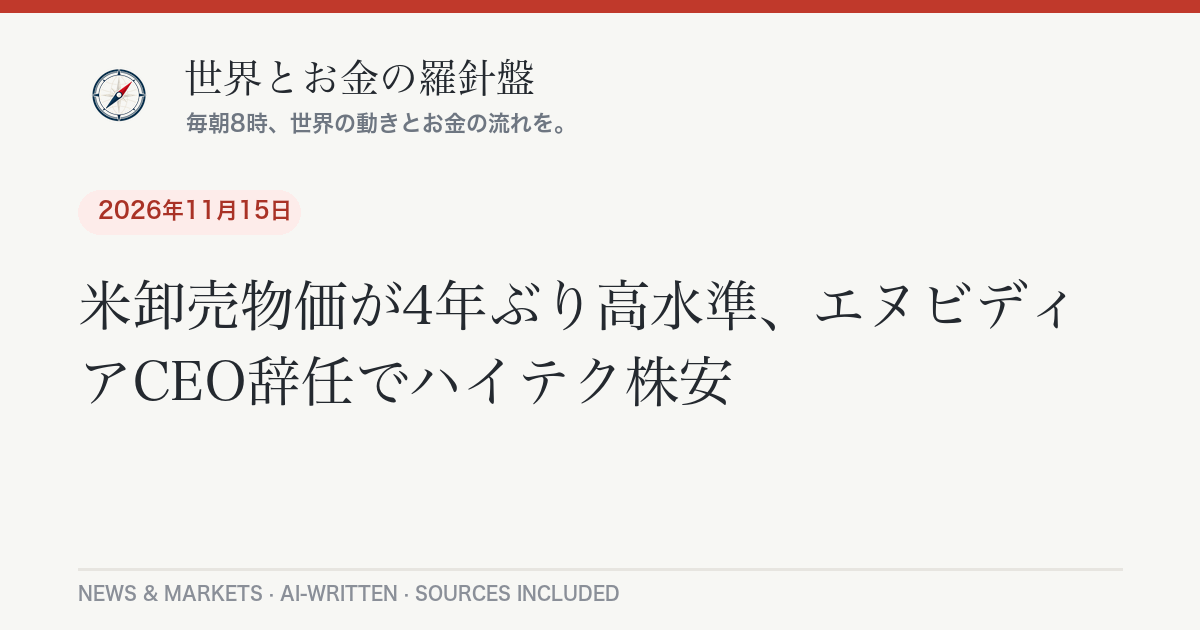
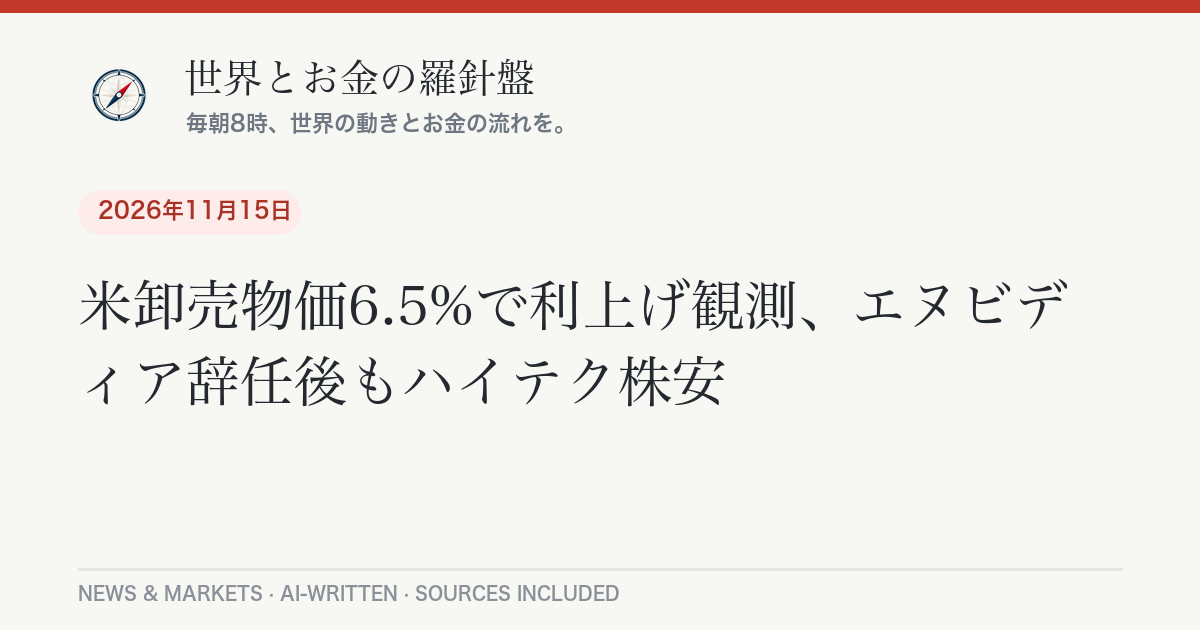
Daily briefing 2026-11-17

Changed region(s): [[0.0617, 0.4222, 0.8942, 0.6635]]

diff --git a/_posts/2026-11-17-daily-briefing.md b/_posts/2026-11-17-daily-briefing.md
@@ -1,0 +1,100 @@
+---
+layout: post
+lang: ja
+title: "ハイテク株が急落、日経平均は6万円割れ｜11月17日のニュースとお金"
+date: 2026-11-17 07:55:00 +0900
+categories: [ニュース, 経済]
+headline: "ハイテク株が急落、日経平均は6万円割れ"
+permalink: /2026/11/17/daily-briefing/
+---
+
+## 今日のポイント
+
+11月16日（月）は、エヌビディアを中心としたAI・半導体株が売られ、日本と米国の株価がそろって大きく下がりました。一方で原油も値下がりし、ドル円は160円の手前で足踏みしています。きょう17日（火）の米国市場の引け後にはエヌビディアの決算発表があり、世界の投資家がその中身を待っている状況です。
+
+## 今日の羅針盤（Compass Insight）
+
+きのうの下げは、日本の景気指標が弱かったことよりも、「AIの期待が一度に冷えやすい局面」にあることが大きいと読みます。日経平均は[2.4%安の5万9,662円](https://finance.yahoo.co.jp/news/detail/51026bee69890da5d51de568999427306fa352d7)で、アドバンテストと東京エレクトロンの2銘柄だけで[約1,071円分の押し下げ](https://kabutan.jp/news/marketnews/?b=n202611161056)でした。指数が一部の半導体株に引っ張られやすいことを示す動きです。
+
+家計への影響で見ると、注目は為替と金利です。円安が160円近辺で続くと、輸入品や電気・ガスの負担が重くなりやすい一方、米国では[12月の追加利上げが織り込まれつつある](https://www.cnbc.com/2026/11/16/treasury-yields-bonds-inflation.html)ため、米金利の高止まりが円安を支える可能性があります。日本でも日銀の12月会合での利上げ観測が強く、住宅ローン（特に変動金利）の動向に注意が必要な局面です。
+
+短期では、エヌビディア決算の内容と、その後の米株の反応に注目です。中長期では、AI関連への投資が収益にどうつながるのか、そして日米の金利差がどこまで円相場を左右するのかを見ておきたいところです。値動きが大きい時期なので、慌てて動かず、自分の資産配分と生活費の余裕を確認する時間にするのも一案です。
+
+## 今日のニュース
+
+### 日本
+- 内閣府が発表した7〜9月期の実質GDP（1次速報）は、[年率換算で0.1%減](https://www.oanda.jp/lab-education/market_news/jpgdp-q3-2026-review/)と4四半期ぶりのマイナス成長でした。市場予想は年率0.2%増でした。
+- 日経平均は[前週末比1,480円安の5万9,662円](https://www.zaikei.co.jp/article/20261116/877819.html)で取引を終え、終値で6万円を割り込みました。
+- ドル円は[一時160.18円まで上昇したあと159円台に戻り](https://www.gaitame.com/media/entry/2026/11/16/110625)、160円台では政府・日銀による為替介入への警戒感が意識されています。
+
+### 世界
+- [エヌビディアは11月12日、ジェンスン・フアン氏が社長・CEO・取締役を辞任したと発表](https://nvidianews.nvidia.com/news/nvidia-announces-ceo-transition)しました。後任は暫定でコレット・クレスCFOです。株価はその後も下落が続いています。
+- 米AI企業アンソロピックは、ナスデックに上場する計画で、[11月18日の価格決定が予定されている](https://finance.yahoo.com/technology/article/anthropic-publicly-files-ipo-prospectus-noting-strong-revenue-growth-and-massive-spending-131807138.html)と報じられています。
+
+### アメリカ
+- トランプ大統領は、移民政策について[「厳しすぎた」と認め、民主党とも協力する考えを示しました](https://www.nbcnews.com/politics/politics-news/live-blog/trump-press-secretary-role-ufc-ceo-dana-white-stephen-miller-congress-rcna608064)。中間選挙後の政権運営の変化が注目されています。
+- 米連邦航空局（FAA）が先週金曜に通信網の更新作業中の機器トラブルで発着を止め、[影響は月曜まで続く見通し](https://npr.org/2026/11/15/nx-s1-6041683/flight-disruptions-expected-to-last-into-monday)と伝えられました。
+
+### ヨーロッパ
+- ギリシャ、デンマーク、ドイツ、オーストリア、オランダの5カ国が、[ルワンダに海外の送還拠点を設ける計画を発表](https://euronews.com/2026/11/16/europe-tonight-five-eu-states-announce-rwanda-deportation-hubs-as-eu-warns-russia-is-weapo)しました。試験運用は2027年半ばの予定で、人権面の懸念も出ています。
+- EU外相会合は、ロシアのプロパガンダに関わったとして[アイルランド人ジャーナリストを含む113の個人・団体に制裁](https://www.rte.ie/news/europe/2026/1116/1599321-eu-ukraine-politics/)を科しました。
+- EU27カ国の閣僚は、[シリア政府との関係強化の提案に賛成](https://www.thenationalnews.com/news/mena/2026/11/16/stable-syria-in-europes-interest-eu-wins-backing-for-deal-with-damascus/)しました。
+
+## 経済とお金の動き
+
+### 世界の経済と原油・相場
+
+| 指標 | 水準 | 前日比 |
+|---|---|---|
+| 日経平均株価（11/16終値） | 59,662.02円 | <span class="chg-down">-1,480.33円（-2.42%）</span> |
+| ダウ平均（11/16終値） | 約51,608ドル | <span class="chg-down">約-739ドル（-1.41%）</span> |
+| S&P500（11/16終値） | 約7,417 | <span class="chg-down">約-1.9%</span> |
+| ナスダック総合（11/16終値） | 約24,510 | <span class="chg-down">約-2.5%</span> |
+| WTI原油（12月限） | 約85.72ドル/バレル | <span class="chg-down">約-3.2%</span> |
+| ドル円（ECB基準日11/16） | 159.60円 | 160円手前で推移 |
+
+米国の指数は[ヤフー・ファイナンス](https://finance.yahoo.com/markets/live/stock-market-today-monday-november-16-dow-sp-500-nasdaq-nvidia-oil-091631084.html)の報道、WTI原油は[リグゾーン](https://www.rigzone.com/news/oil_retreats_as_traders_weigh_supply_glut-16-nov-2026-185096-article)の報道、ドル円は[フランクフルター API](https://api.frankfurter.app/latest?from=USD&to=JPY)の値を使っています。数値は媒体によって小数点以下に差があるため「約」と表記しました。
+
+原油は、国際エネルギー機関（IEA）が供給過剰を見込んでいることや、中東からの輸出の回復を背景に下げました。[ブレント原油も3%台の下落](https://www.rigzone.com/news/oil_retreats_as_traders_weigh_supply_glut-16-nov-2026-185096-article)です。ガソリンや電気料金には時間差で影響しますが、家計には追い風になりうる動きです。
+
+### アメリカの経済
+
+米国では、[10年国債の利回りが5%台前半](https://www.cnbc.com/2026/11/16/treasury-yields-bonds-inflation.html)と高い水準にあります。FRB（米連邦準備制度理事会）は[9月に約3年ぶりの利上げを実施し、政策金利を3.75〜4.00%にしました](https://www.axios.com/2026/09/16/fed-rates-warsh-trump)。市場では12月にもう一度の利上げを見込む声が強まっています。ウォーシュ議長が「AIは期待外れになりうる」という趣旨の発言をしたことも、ハイテク株の重しになりました。きょうは10月の小売売上高とエヌビディア決算が注目点です。
+
+### 日本の経済
+
+7〜9月期のGDPは小幅なマイナスでした。設備投資は[前期比1.6%増](https://www5.cao.go.jp/keizai1/danwa/1116_danwa.pdf)と堅調だった一方、外需がマイナスに働き、個人消費も力強さに欠けました。それでも市場では、賃金や内需が大きく崩れない限り、[日銀の12月利上げ観測は大きく揺らいでいない](https://www.oanda.jp/lab-education/market_news/jpgdp-q3-2026-review/)という見方が優勢です。
+
+## 今日の注目銘柄・セクター
+
+- **エヌビディア**：フアンCEOの辞任発表後も売りが続き、きのうは[約4%下落](https://www.cnn.com/2026/11/16/business/stocks-nvidia-ai-anthropic)しました。きょうの決算で、暫定体制のもとの見通しがどう示されるかが焦点です。
+- **アドバンテスト・東京エレクトロン**：日本の半導体関連の代表格で、2銘柄だけで日経平均を[約1,071円押し下げ](https://kabutan.jp/news/marketnews/?b=n202611161056)ました。米半導体株安がそのまま波及しました。
+- **アマゾン**：新たなAI半導体の輸出規制と衛星打ち上げの失敗が重なり、[約3%下落](https://www.fool.com/coverage/stock-market-today/2026/11/16/stock-market-today-nov-16-amazon-falls-on-new-ai-chip-export-rule-and-leo-satellite-launch-failure/)しました。
+- **エネルギーセクター**：原油安で売られやすい地合いです。
+
+*※特定銘柄の売買を推奨するものではありません。投資判断はご自身の責任で。*
+
+## まとめ：注目の3つ
+
+1. 今夜（日本時間18日早朝）のエヌビディア決算と、その後のAI・半導体株の反応
+2. ドル円160円台での為替介入への警戒と、日銀・FRBの12月会合
+3. 原油安が家計や物価にどう波及するか
+
+---
+<div class="post-sources" markdown="1">
+
+**出典：**
+- [日経平均大引け（ウエルスアドバイザー／Yahoo!ファイナンス）](https://finance.yahoo.co.jp/news/detail/51026bee69890da5d51de568999427306fa352d7)
+- [日経平均大引け（財経新聞）](https://www.zaikei.co.jp/article/20261116/877819.html)
+- [日経平均寄与度ランキング（株探）](https://kabutan.jp/news/marketnews/?b=n202611161056)
+- [日本GDP 7-9月期（OANDA）](https://www.oanda.jp/lab-education/market_news/jpgdp-q3-2026-review/)
+- [Stock market today, Nov. 16（Yahoo Finance）](https://finance.yahoo.com/markets/live/stock-market-today-monday-november-16-dow-sp-500-nasdaq-nvidia-oil-091631084.html)
+- [Oil Retreats as Traders Weigh Supply Glut（Rigzone）](https://www.rigzone.com/news/oil_retreats_as_traders_weigh_supply_glut-16-nov-2026-185096-article)
+- [Treasury yields（CNBC）](https://www.cnbc.com/2026/11/16/treasury-yields-bonds-inflation.html)
+- [NVIDIA Announces CEO Transition](https://nvidianews.nvidia.com/news/nvidia-announces-ceo-transition)
+- [Europe Tonight（Euronews）](https://euronews.com/2026/11/16/europe-tonight-five-eu-states-announce-rwanda-deportation-hubs-as-eu-warns-russia-is-weapo)
+- 市場データ: [frankfurter API](https://api.frankfurter.app/) ／ Yahoo Finance ほか
+
+*本記事は公開情報をもとに作成しています。*
+
+</div>

diff --git a/_posts/2026-11-17-daily-briefing-en.md b/_posts/2026-11-17-daily-briefing-en.md
@@ -1,0 +1,49 @@
+---
+layout: post
+lang: en
+title: "Tech selloff drags Wall Street lower as Nvidia earnings loom — November 17, 2026"
+date: 2026-11-17 07:55:00 +0900
+headline: "Tech selloff drags Wall Street lower as Nvidia earnings loom"
+permalink: /2026/11/17/daily-briefing/
+---
+
+## Top U.S. Stories
+
+- Wall Street fell for a third straight session on Monday as tech led the retreat: the [Nasdaq dropped about 2.5%, the S&P 500 about 1.9% and the Dow about 1.4%](https://finance.yahoo.com/markets/live/stock-market-today-monday-november-16-dow-sp-500-nasdaq-nvidia-oil-091631084.html). Nvidia fell about 4% ahead of its earnings report due after Tuesday's close. *Why it matters:* Nvidia is the bellwether for AI spending, so its results can reset sentiment for the whole sector.
+- Nvidia announced on Nov. 12 that [Jensen Huang resigned as president, CEO and board member](https://nvidianews.nvidia.com/news/nvidia-announces-ceo-transition); CFO Colette Kress is interim CEO. *Why it matters:* The company reports its first quarter under new leadership, adding uncertainty to guidance.
+- Anthropic is [reportedly set to price its IPO on Nov. 18](https://finance.yahoo.com/technology/article/anthropic-publicly-files-ipo-prospectus-noting-strong-revenue-growth-and-massive-spending-131807138.html) on Nasdaq. Investors are watching whether the AI selloff dents demand.
+- Amazon slipped about 3% after [a new U.S. AI chip export rule and a failed satellite launch](https://www.fool.com/coverage/stock-market-today/2026/11/16/stock-market-today-nov-16-amazon-falls-on-new-ai-chip-export-rule-and-leo-satellite-launch-failure/).
+- President Trump said his immigration policies were ["too tough"](https://www.nbcnews.com/politics/politics-news/live-blog/trump-press-secretary-role-ufc-ceo-dana-white-stephen-miller-congress-rcna608064) and that he would work with Democrats after the midterms.
+
+## Compass Insight
+
+Monday's drop looks less like a reaction to any single piece of bad news and more like a market with little patience for AI disappointment. Rates are part of the story: the 10-year Treasury yield sits [above 5%](https://www.cnbc.com/2026/11/16/treasury-yields-bonds-inflation.html), and traders are pricing a further Fed hike in December after September's increase. High yields make richly valued growth stocks harder to justify. In the short term, watch Nvidia's guidance, retail sales data and any Fed commentary. Over the medium term, the question is whether AI spending converts into earnings fast enough to offset higher borrowing costs. Oil's decline is a modest offset for consumers.
+
+## Markets
+
+- S&P 500: about 7,417 (-1.9%); Nasdaq: about 24,510 (-2.5%); Dow: about 51,608 (-1.4%) per [Yahoo Finance](https://finance.yahoo.com/markets/live/stock-market-today-monday-november-16-dow-sp-500-nasdaq-nvidia-oil-091631084.html).
+- WTI crude settled near $85.72 a barrel (-3.2%) on [supply-surplus expectations](https://www.rigzone.com/news/oil_retreats_as_traders_weigh_supply_glut-16-nov-2026-185096-article).
+- The Fed [raised rates to 3.75%–4.00% in September](https://www.axios.com/2026/09/16/fed-rates-warsh-trump); markets lean toward another hike in December.
+- USD/JPY was [160.18 at the high before easing back below 160](https://www.gaitame.com/media/entry/2026/11/16/110625); ECB reference rate 159.60 via [Frankfurter](https://api.frankfurter.app/latest?from=USD&to=JPY). Tokyo's Nikkei 225 [closed at 59,662, down 2.4%](https://www.zaikei.co.jp/article/20261116/877819.html).
+
+## Stocks in Focus
+
+- **Nvidia:** Down about 4% as the market awaits earnings under interim leadership.
+- **Amazon:** Lower on export-rule and satellite-launch news.
+
+*Not a recommendation to buy or sell any security.*
+
+<div class="post-sources" markdown="1">
+
+**Sources:**
+- [Stock market today, Nov. 16 (Yahoo Finance)](https://finance.yahoo.com/markets/live/stock-market-today-monday-november-16-dow-sp-500-nasdaq-nvidia-oil-091631084.html)
+- [Stocks slide to kick off major week (CNN)](https://www.cnn.com/2026/11/16/business/stocks-nvidia-ai-anthropic)
+- [NVIDIA Announces CEO Transition](https://nvidianews.nvidia.com/news/nvidia-announces-ceo-transition)
+- [Oil Retreats as Traders Weigh Supply Glut (Rigzone)](https://www.rigzone.com/news/oil_retreats_as_traders_weigh_supply_glut-16-nov-2026-185096-article)
+- [Treasury yields (CNBC)](https://www.cnbc.com/2026/11/16/treasury-yields-bonds-inflation.html)
+- [Fed raises rates (Axios)](https://www.axios.com/2026/09/16/fed-rates-warsh-trump)
+- [Amazon falls (Motley Fool)](https://www.fool.com/coverage/stock-market-today/2026/11/16/stock-market-today-nov-16-amazon-falls-on-new-ai-chip-export-rule-and-leo-satellite-launch-failure/)
+
+</div>
+
+*Auto-generated and AI-written. Not investment advice.*
